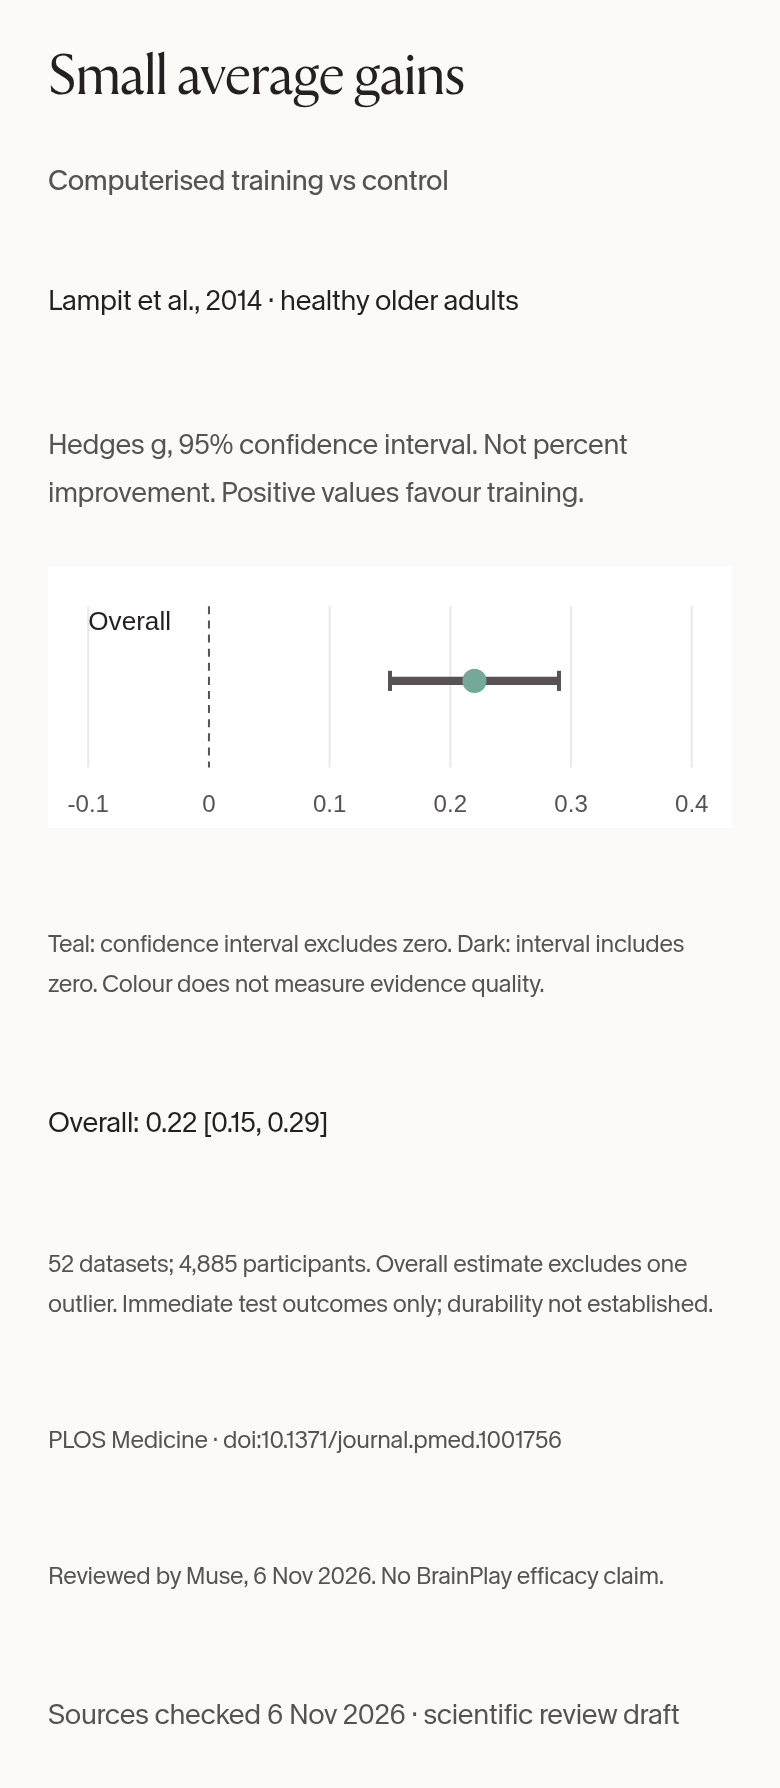
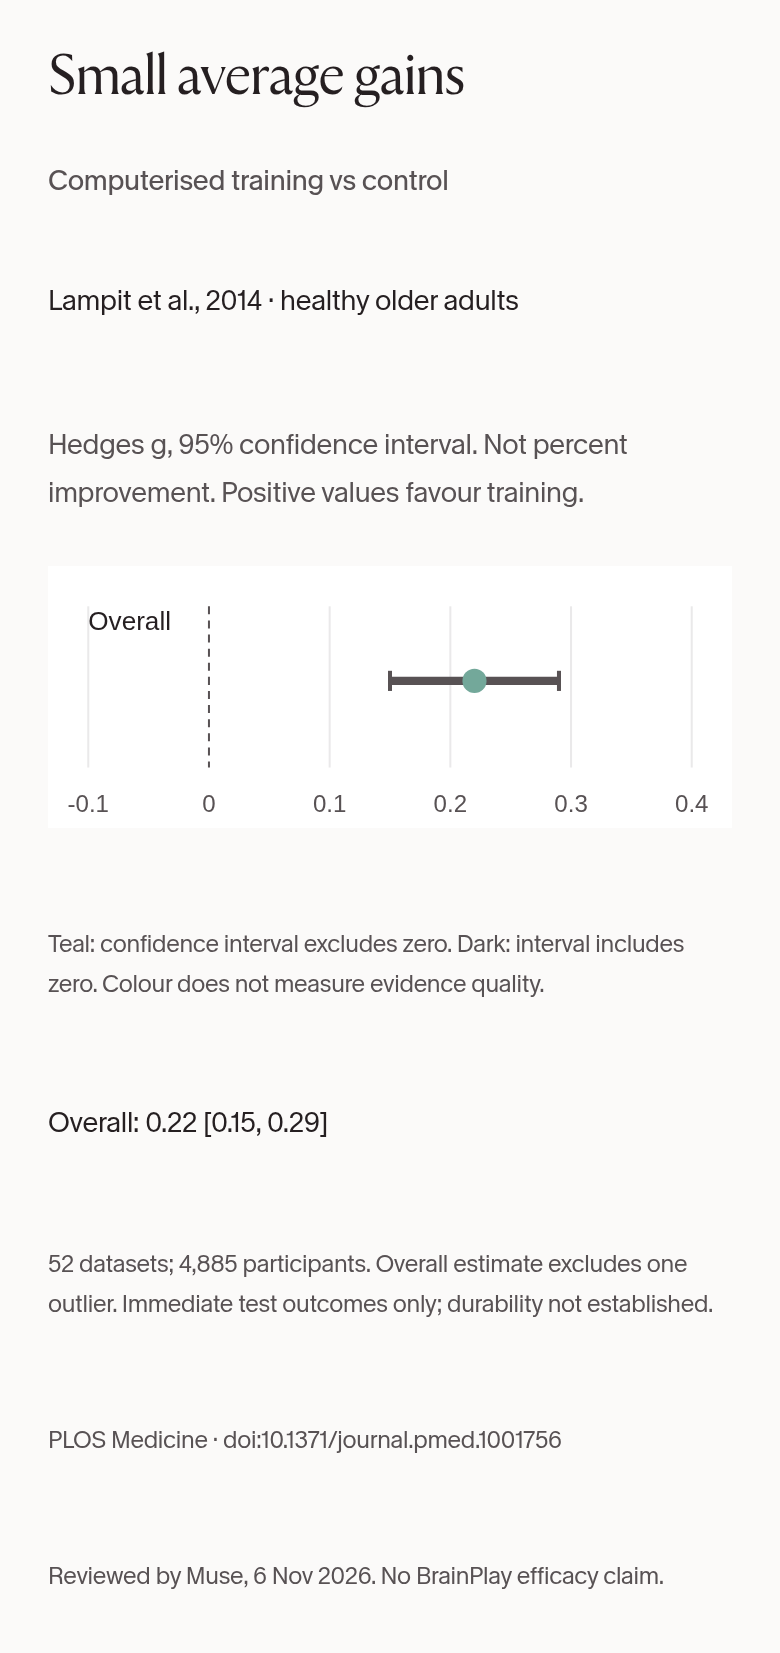
research charts: remove the 'scientific review draft' footer from the three published charts
The reviewed package (sha a6dc35f3) has no layout source for the full chart images; its SVGs
cover only the plot panels. Each PNG is rebuilt from the reviewed pixels: every row above the
footer is byte-identical, the footer line 'Sources checked 6 Nov 2026 . scientific review draft'
and its blank band are dropped, and the original 64 px bottom margin is kept. No value, interval,
scale, colour, label, citation or explanation changed. The article's img height attributes follow
the new sizes (1653, 2083, 1911) and the image URLs carry ?v=2 so cached copies refresh.

diff --git a/article-the-research-in-charts.html b/article-the-research-in-charts.html
@@ -38,7 +38,7 @@
 
   <h2>1. Small average gains on thinking tests</h2>
   <figure class="chart">
-  <a class="zoom" href="images/research/01-training.png"><img src="images/research/01-training.png" width="780" height="1788" loading="lazy" alt="Chart: computerised training versus control, Lampit and colleagues 2014. Overall Hedges g 0.22, 95% confidence interval 0.15 to 0.29, which excludes zero."></a>
+  <a class="zoom" href="images/research/01-training.png?v=2"><img src="images/research/01-training.png?v=2" width="780" height="1653" loading="lazy" alt="Chart: computerised training versus control, Lampit and colleagues 2014. Overall Hedges g 0.22, 95% confidence interval 0.15 to 0.29, which excludes zero."></a>
   <figcaption><strong>Overall: 0.22 [0.15, 0.29]</strong> (Hedges g, 95% confidence interval). Positive values favour training.</figcaption>
   </figure>
   <p>A 2014 review in PLOS Medicine pooled 52 datasets from 51 articles, with 4,885 cognitively healthy older adults who did at least four hours of computerised training. On average, trained groups scored a little higher on thinking tests than comparison groups. <a class="cite" href="#src-1">[1]</a></p>
@@ -50,7 +50,7 @@
 
   <h2>2. Some trained skills persisted at ten years</h2>
   <figure class="chart">
-  <a class="zoom" href="images/research/02-active.png"><img src="images/research/02-active.png" width="780" height="2218" loading="lazy" alt="Chart: ACTIVE trial at 10 years, Rebok and colleagues 2014, training versus no-contact control, 99% confidence intervals. Memory 0.06, interval minus 0.14 to 0.27, which includes zero. Reasoning 0.23, interval 0.09 to 0.38. Processing speed 0.66, interval 0.43 to 0.88."></a>
+  <a class="zoom" href="images/research/02-active.png?v=2"><img src="images/research/02-active.png?v=2" width="780" height="2083" loading="lazy" alt="Chart: ACTIVE trial at 10 years, Rebok and colleagues 2014, training versus no-contact control, 99% confidence intervals. Memory 0.06, interval minus 0.14 to 0.27, which includes zero. Reasoning 0.23, interval 0.09 to 0.38. Processing speed 0.66, interval 0.43 to 0.88."></a>
   <figcaption><strong>Memory: 0.06 [-0.14, 0.27]</strong>, which includes zero, so there is no clear retained effect. <strong>Reasoning: 0.23 [0.09, 0.38]. Processing speed: 0.66 [0.43, 0.88].</strong> Standardised effect sizes on each group's own trained skill, 99% confidence intervals.</figcaption>
   </figure>
   <p>The ACTIVE trial randomly assigned 2,832 adults aged 65 and over to memory, reasoning or processing-speed training, or to a no-contact control group. Ten years later, the reasoning and speed groups still did better on the skills they had trained. The memory group did not. <a class="cite" href="#src-2">[2]</a></p>
@@ -62,7 +62,7 @@
 
   <h2>3. Whether benefits last is uncertain</h2>
   <figure class="chart">
-  <a class="zoom" href="images/research/03-duration.png"><img src="images/research/03-duration.png" width="780" height="2046" loading="lazy" alt="Chart: Cochrane review 2020, global cognition versus active control, standardised mean difference with 95% confidence intervals, where negative values favour training. End of 12 weeks minus 0.31, interval minus 0.57 to minus 0.05, which excludes zero. 12 months after the intervention ended minus 0.21, interval minus 0.66 to 0.24, which includes zero."></a>
+  <a class="zoom" href="images/research/03-duration.png?v=2"><img src="images/research/03-duration.png?v=2" width="780" height="1911" loading="lazy" alt="Chart: Cochrane review 2020, global cognition versus active control, standardised mean difference with 95% confidence intervals, where negative values favour training. End of 12 weeks minus 0.31, interval minus 0.57 to minus 0.05, which excludes zero. 12 months after the intervention ended minus 0.21, interval minus 0.66 to 0.24, which includes zero."></a>
   <figcaption><strong>End of 12 weeks: -0.31 [-0.57, -0.05]. 12 months after the intervention ended: -0.21 [-0.66, 0.24]</strong>, which includes zero. Standardised mean difference, 95% confidence intervals. <strong>In this review, negative values favour training.</strong></figcaption>
   </figure>
   <p>A 2020 Cochrane review looked at computerised training lasting at least 12 weeks in cognitively healthy older people, compared with an active control. At the end of training there was a small possible benefit for overall thinking ability (two studies, 232 participants). Twelve months after the training ended, only one study (77 participants) had data, and it did not show a clear lasting effect. <a class="cite" href="#src-3">[3]</a></p>
